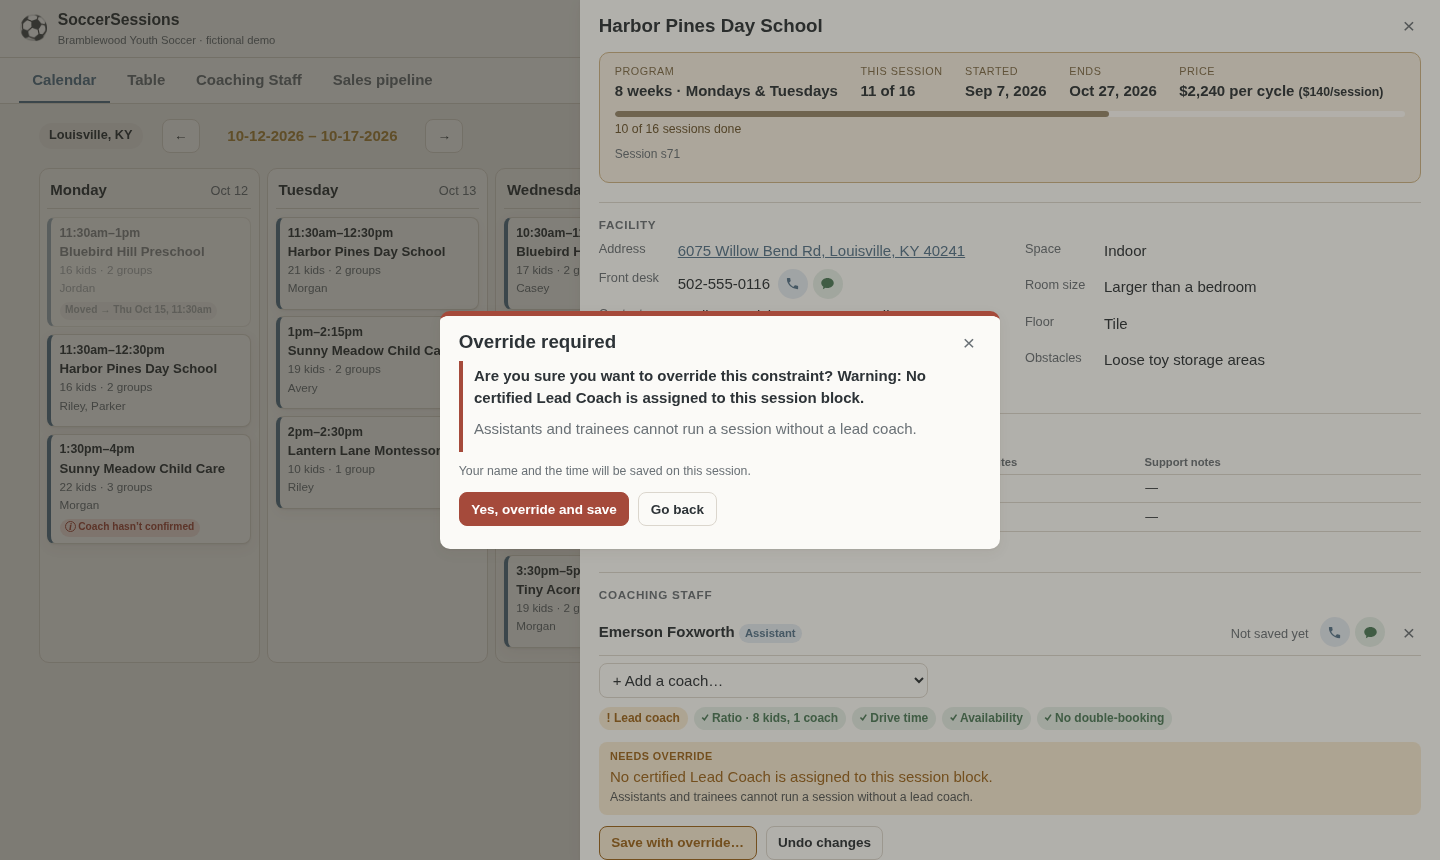
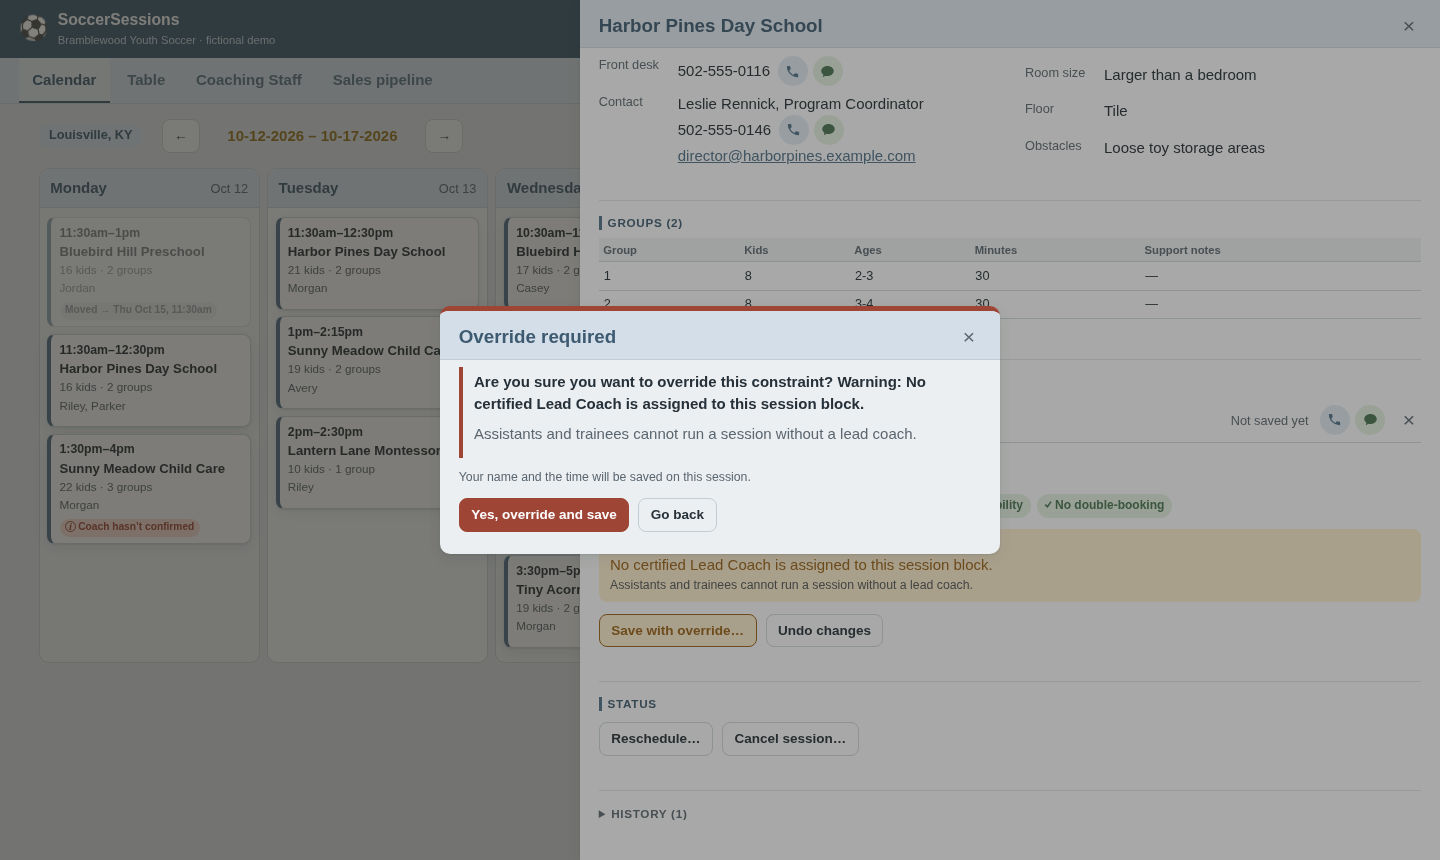
v2.0.1: more color and shading, no near-white surfaces

diff --git a/src/index.css b/src/index.css
@@ -1,31 +1,35 @@
 :root {
-  /* Calm, earthy and light: off-white, soft gray-blue, light tan, a touch of gold. */
-  --bg: #f2f0ec;
-  --surface: #fbfaf7;
-  --surface-2: #ebe8e2;
-  --text: #2d3337;
-  --muted: #6a7176;
-  --line: #dbd6cd;
-  --brand: #56748a;
-  --brand-ink: #ffffff;
-  --brand-soft: #e1e8ee;
-  --tan: #cbb185;
-  --tan-soft: #f3ecdf;
-  --tan-ink: #6b5530;
-  --gold: #ad873a;
-  --warn: #9c6620;
-  --warn-soft: #f5e9d2;
-  --bad: #a54a3b;
-  --bad-soft: #f4e0db;
-  --ok: #4d7a5a;
-  --ok-soft: #e2ebe3;
-  --info: #56748a;
-  --info-soft: #e1e8ee;
-  --override: #76668c;
-  --override-soft: #ebe6f0;
-  --day-a: #f6f4f0;
-  --day-b: #fbfaf7;
-  --shadow: 0 1px 2px rgb(60 50 30 / 6%), 0 4px 14px rgb(60 50 30 / 6%);
+  /* Calm and easy on the eyes: light grays instead of white, gray-blue as the main
+     color, gray for shading, light tan and a touch of gold as accents. */
+  --bg: #d9dfe4;
+  --surface: #eceff1;
+  --surface-2: #e0e5e9;
+  --surface-3: #d2d9df;
+  --field: #f1f3f4;
+  --text: #253039;
+  --muted: #5a6670;
+  --line: #c3ccd3;
+  --brand: #4d6d86;
+  --brand-strong: #3d5a71;
+  --brand-ink: #f3f6f8;
+  --brand-soft: #d3dee8;
+  --tan: #c4a978;
+  --tan-soft: #ebe2d0;
+  --tan-ink: #634e2b;
+  --gold: #94711f;
+  --warn: #93601c;
+  --warn-soft: #efe2c8;
+  --bad: #9e4536;
+  --bad-soft: #eed8d2;
+  --ok: #456f52;
+  --ok-soft: #d6e4d9;
+  --info: #4d6d86;
+  --info-soft: #d3dee8;
+  --override: #6e5f86;
+  --override-soft: #e1dbe8;
+  --day-a: #e3e8ec;
+  --day-b: #eceff1;
+  --shadow: 0 1px 2px rgb(30 45 60 / 10%), 0 4px 14px rgb(30 45 60 / 8%);
   --radius: 10px;
   color-scheme: light;
   font-family: 'Inter', system-ui, -apple-system, 'Segoe UI', Roboto, sans-serif;
@@ -74,7 +78,7 @@ small, .small { font-size: 0.82rem; }
 .icon-btn:hover { color: var(--bad); }
 .linklike { border: 0; background: none; color: var(--brand); font: inherit; padding: 0; cursor: pointer; text-decoration: underline; }
 input, select, textarea {
-  font: inherit; color: var(--text); background: var(--surface);
+  font: inherit; color: var(--text); background: var(--field);
   border: 1px solid var(--line); border-radius: 8px; padding: 0.45em 0.6em; min-width: 0;
 }
 input:focus, select:focus, textarea:focus, .btn:focus-visible, a:focus-visible { outline: 2px solid var(--brand); outline-offset: 1px; }
@@ -422,6 +426,53 @@ details.history-box[open] summary { margin-bottom: 0.6em; }
 .prompt .actions { margin-top: 0.3em; }
 .phone-body .seg { margin: 0.2em 0 0.8em; }
 .flag.moved { background: var(--warn-soft); color: var(--warn); }
+
+/* ---- More color and shading ---- */
+.topbar { background: var(--brand-strong); border-bottom-color: var(--brand-strong); color: var(--brand-ink); }
+.topbar .brand, .topbar .brand strong { color: var(--brand-ink); }
+.topbar .brand small, .topbar .who-name small { color: #c3d2de; }
+.topbar .who-name { color: var(--brand-ink); }
+.topbar .btn { background: rgb(255 255 255 / 10%); border-color: rgb(255 255 255 / 25%); color: var(--brand-ink); }
+.topbar .btn:hover:not(:disabled) { background: rgb(255 255 255 / 18%); border-color: rgb(255 255 255 / 45%); }
+.topbar .btn.danger { background: var(--bad); border-color: var(--bad); }
+.topbar .guide-toggle.on { background: var(--tan-soft); border-color: var(--tan); color: var(--tan-ink); }
+.tabs { background: var(--brand-soft); border-bottom-color: var(--line); }
+.tabs a { color: var(--brand-strong); opacity: 0.8; }
+.tabs a.active { opacity: 1; color: var(--brand-strong); border-bottom-color: var(--brand-strong); background: rgb(255 255 255 / 25%); }
+.grid th { background: var(--brand-soft); color: var(--brand-strong); }
+.grid tr:nth-child(even):not(.day-row) td { background: rgb(0 0 0 / 2%); }
+.day-row td { background: var(--surface-3); border-left-color: var(--brand); }
+.day-row.day-2 td, .day-row.day-4 td, .day-row.day-6 td { background: var(--surface-2); }
+.day header { background: var(--brand-soft); margin: -0.5em -0.5em 0.6em; padding: 0.55em 0.7em; border-radius: var(--radius) var(--radius) 0 0; border-bottom-color: var(--line); }
+.day header strong { color: var(--brand-strong); }
+.day:nth-child(odd) { background: var(--day-a); }
+.day.today header { background: var(--brand); }
+.day.today header strong, .day.today header span { color: var(--brand-ink); }
+.event { background: var(--field); border-left-color: var(--brand); }
+.kpi-card { border-top: 4px solid var(--brand); }
+.kpi-card h3 { color: var(--brand-strong); }
+.card { border-top: 3px solid var(--surface-3); }
+.card h3 { color: var(--brand-strong); }
+.role-card { border-top: 4px solid var(--brand); }
+.modal { background: var(--surface); }
+.modal-head { background: var(--brand-soft); border-bottom: 1px solid var(--line); margin-bottom: 0.5em; padding-bottom: 0.7em; }
+.modal-head h2 { color: var(--brand-strong); }
+.sp-section > h3 { color: var(--brand-strong); border-left: 3px solid var(--brand); padding-left: 0.5em; }
+.sp-section { border-top-color: var(--surface-3); }
+table.mini th { background: var(--surface-2); }
+.intake-form fieldset { background: var(--surface); border-top: 3px solid var(--brand); }
+.intake-form legend { color: var(--brand-strong); background: var(--brand-soft); border-radius: 6px; padding: 0.15em 0.6em; }
+.coverage { border-top: 4px solid var(--brand); }
+.coverage h3 { color: var(--brand-strong); }
+.phone-app { background: var(--surface); }
+.phone-day h3 { background: var(--brand-soft); padding: 0.35em 0.5em; border-radius: 6px; border-bottom: 0; color: var(--brand-strong); }
+.phone-day.day-2 h3, .phone-day.day-4 h3, .phone-day.day-6 h3 { background: var(--surface-3); }
+.bottom-nav { background: var(--brand-soft); }
+.bottom-nav a { color: var(--brand-strong); opacity: 0.75; }
+.bottom-nav a.active { opacity: 1; color: var(--brand-strong); box-shadow: inset 0 3px 0 var(--brand-strong); }
+.seg { background: var(--field); }
+.slot { background: var(--field); }
+.chip { background: var(--brand-soft); color: var(--brand-strong); }
 
 @media (max-width: 1100px) {
   .calendar { grid-template-columns: repeat(3, minmax(0, 1fr)); }

diff --git a/CHANGELOG.md b/CHANGELOG.md
@@ -3,6 +3,16 @@
 Every version is tagged in git (`vX.Y.Z`). To restore one, check out its tag and
 commit it as a new version; history is never rewritten.
 
+## v2.0.1 (2026-10-10 23:05 ET): more color, less white
+
+- More gray-blue: a blue header bar, blue-gray tabs, column headers, day headers, card
+  and section accents.
+- Gray added for shading: alternating table rows and calendar days, shaded day labels
+  on the coach's phone.
+- No pure or near-white anywhere: page, cards, panels and fields are all very light grays.
+
+Restore this if: the screens feel too dark or busy (v2.0.0 was lighter).
+
 ## v2.0.0 (2026-10-10 22:40 ET): SoccerSessions, after a full review
 
 Renamed from Crewboard to **SoccerSessions** (new link: lyversemason.github.io/soccer-sessions).
